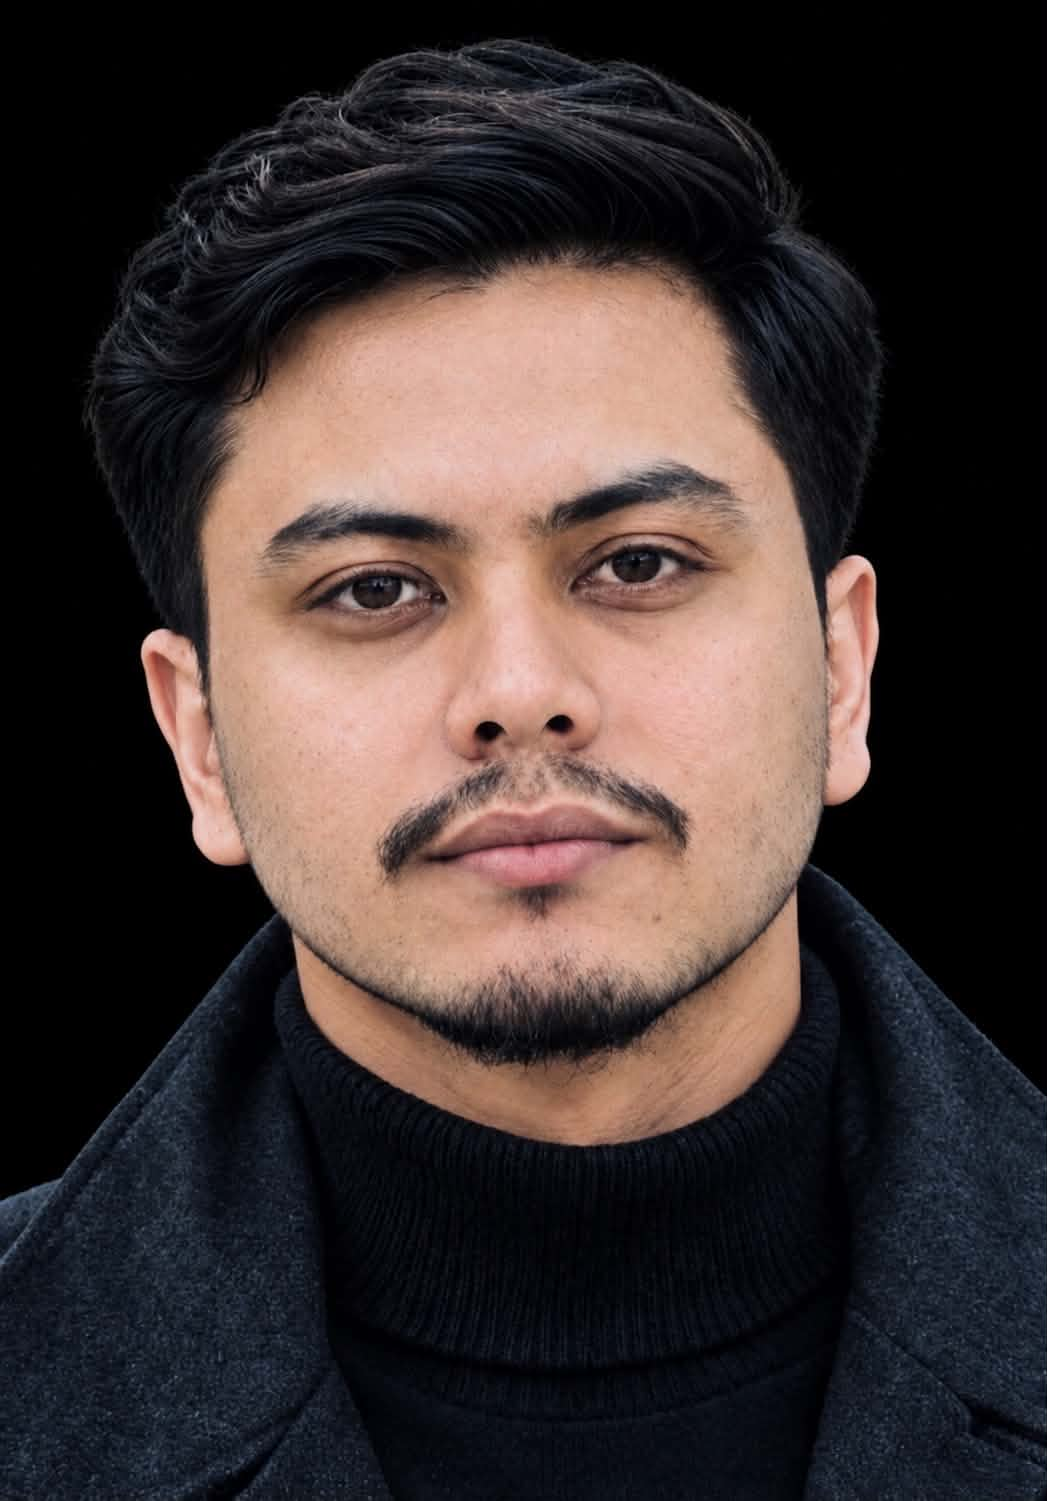
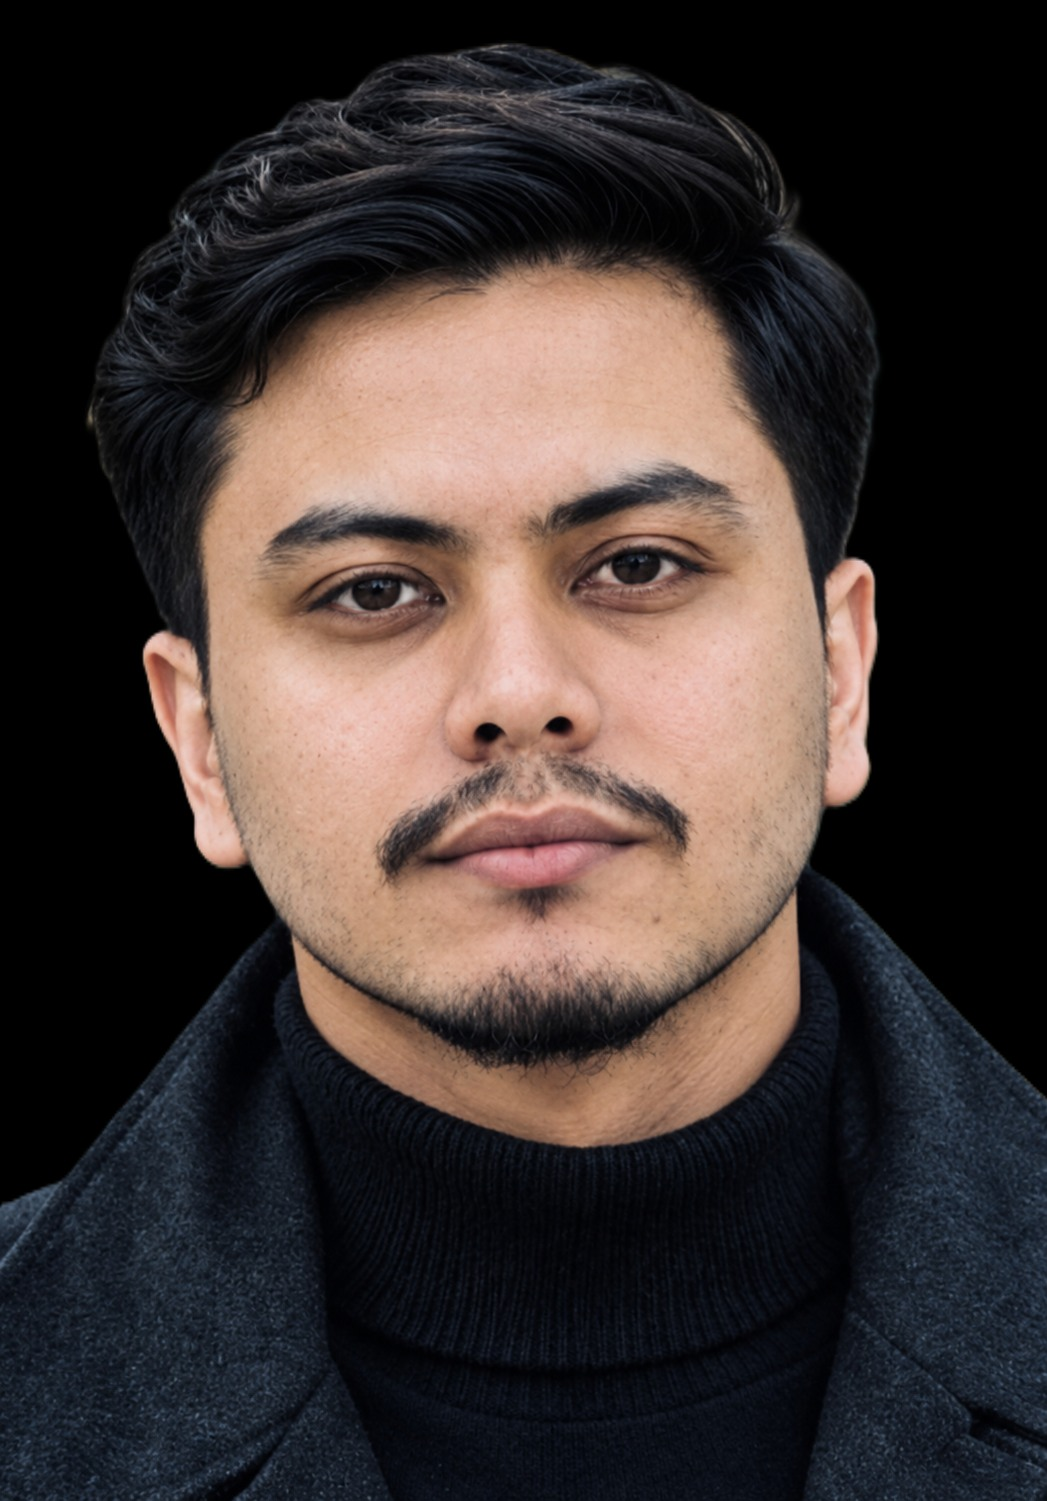
Replace portraits with higher-quality images

diff --git a/index.html b/index.html
@@ -136,7 +136,7 @@
                         <span class="sheet-corner" aria-hidden="true"></span>
                         <span class="sheet-corner" aria-hidden="true"></span>
                         <span class="sheet-corner" aria-hidden="true"></span>
-                        <img src="images/mainbg.jpg" alt="Portrait of Sunoj Shrestha" width="1047" height="1497" fetchpriority="high">
+                        <img src="images/mainbg.jpg" alt="Portrait of Sunoj Shrestha" width="1047" height="1501" fetchpriority="high">
                     </div>
                     <figcaption class="title-block">
                         <div><span class="mono">Name</span><strong>Sunoj Shrestha</strong></div>
